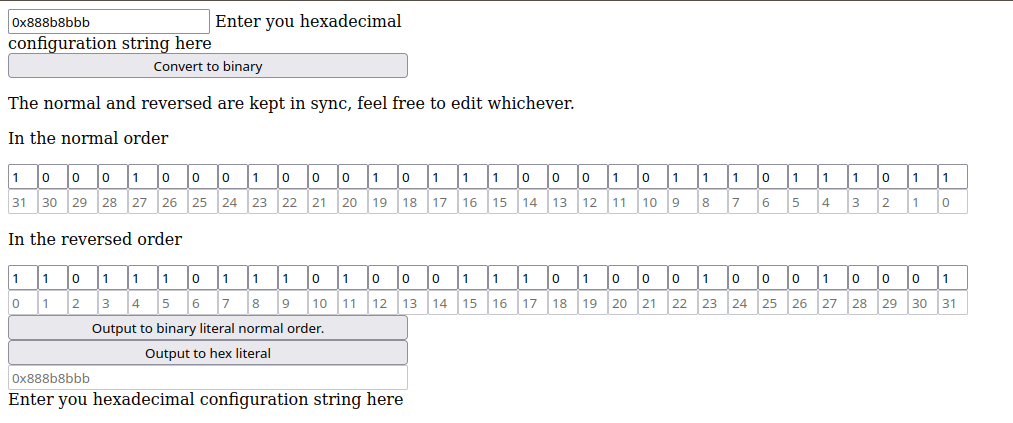
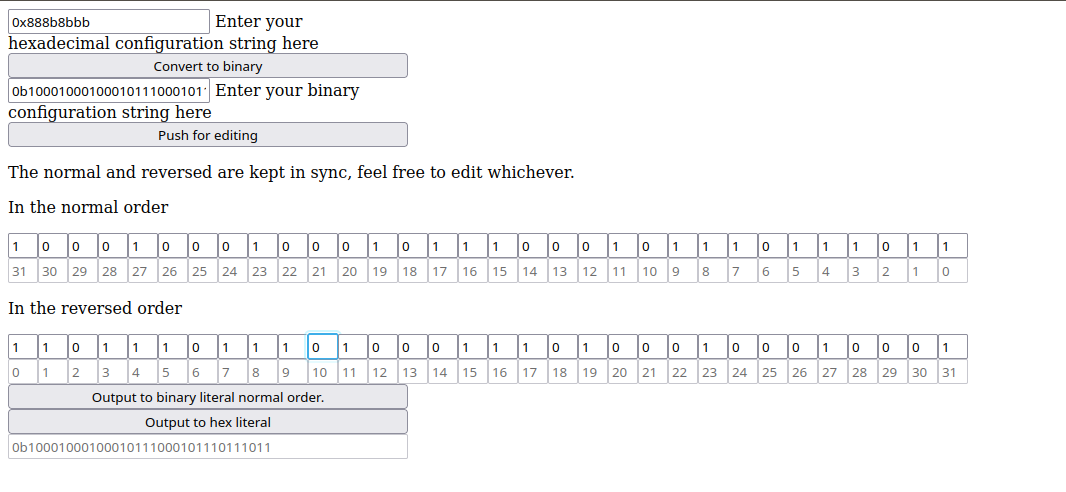
v2

Changed region(s): [[0.0, 0.0, 0.9487, 0.5839], [0.0, 0.6147, 0.9487, 0.9835]]

diff --git a/index.js b/index.js
@@ -10,7 +10,9 @@ window.addEventListener('load', function () {
     let rbitsContainer = document.querySelector("#rbits-container");
     let rnumberingContainer = document.querySelector("#rnumberingContainer");
     let btnConvertToBinary = document.querySelector("#convertToBinary")
+    let btnPushBinary = document.querySelector("#btnPushBinary")
     let hexHere = document.querySelector("#hexHere")
+    let binHere = document.querySelector("#binHere")
     let outputHere = document.querySelector("#outputHere");
     let outputLabel = document.querySelector("#outputLabel");
 
@@ -52,6 +54,18 @@ window.addEventListener('load', function () {
     }
     btnConvertToBinary.addEventListener('click', function () {
         let convertedString = hex2bin(hexHere.value)
+        for (let i = 0; i < 32; i++) {
+            let ithElement = document.querySelector("#i" + i);
+            ithElement.value = convertedString[i];
+        }
+        for (let i = 31; i >= 0; i--) {
+            let ithElement = document.querySelector("#ri" + i);
+            ithElement.value = convertedString[i];
+        }
+    });
+
+    btnPushBinary.addEventListener('click', function () {
+        let convertedString = binHere.value.replace("0b", "");
         for (let i = 0; i < 32; i++) {
             let ithElement = document.querySelector("#i" + i);
             ithElement.value = convertedString[i];

diff --git a/index.html b/index.html
@@ -13,8 +13,13 @@
 <body>
     <div class="inputs">
         <span><input type="text" name="hexHere" id="hexHere">
-            <label for="hexHere">Enter you hexadecimal configuration string here</label></span>
+            <label for="hexHere">Enter your hexadecimal configuration string here</label></span>
         <button id="convertToBinary">Convert to binary</button>
+    </div>
+    <div class="inputs">
+        <span><input type="text" name="binHere" id="binHere">
+            <label for="binHere">Enter your binary configuration string here</label></span>
+        <button id="btnPushBinary">Push for editing</button>
     </div>
     <p>The normal and reversed are kept in sync, feel free to edit whichever.</p>
     <p>In the normal order</p>
@@ -27,7 +32,7 @@
         <button id="outputBinaryLiteral">Output to binary literal normal order.</button>
         <button id="outputHexLiteral">Output to hex literal</button>
         <input type="text" name="" id="outputHere" disabled>
-        <label id="outputLabel" for="outputHere">Enter you hexadecimal configuration string here</label></span>
+        <label id="outputLabel" for="outputHere"></label></span>
     </div>
 </body>
 
